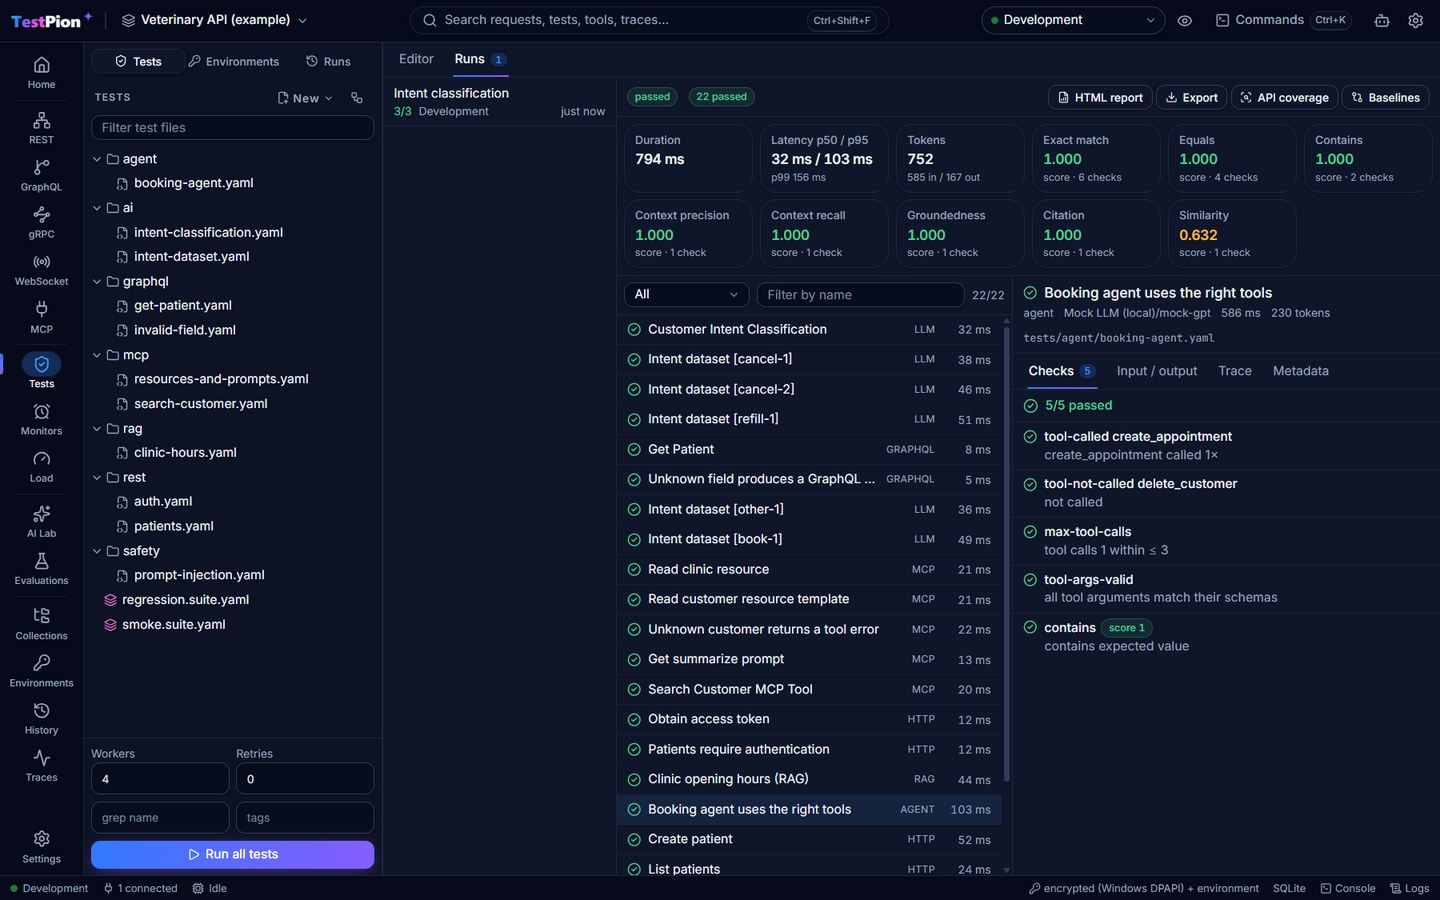
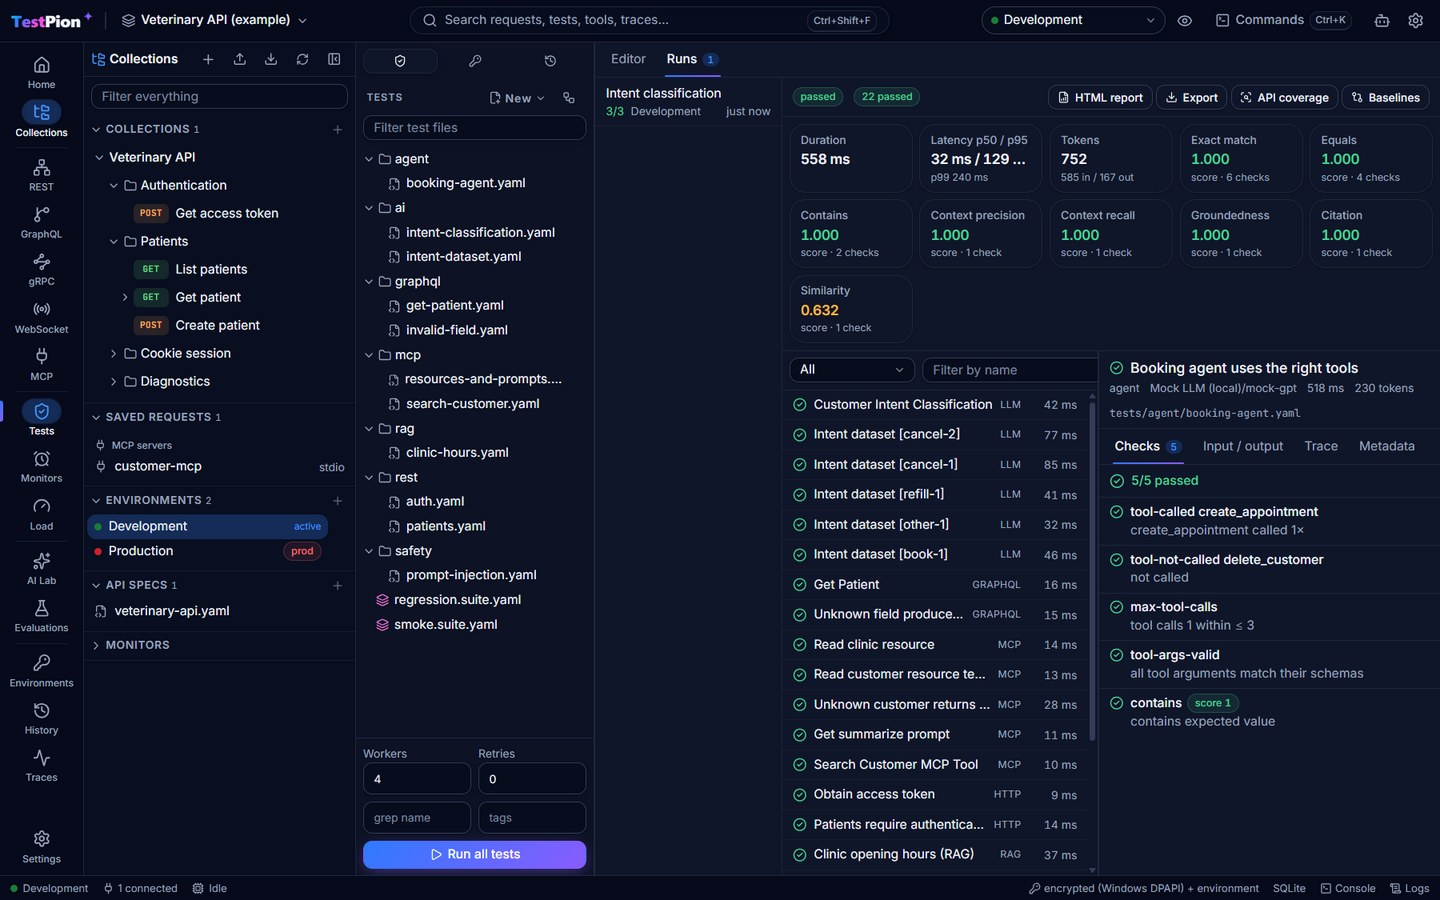
Release v0.10.0: Collections explorer, Postman-style request settings, saved evaluations and load tests from the CLI and MCP, export beside import, safer update prompt
Screenshots are now captured from the committed example workspace (git HEAD), so local edits never reach the docs.

diff --git a/packages/core/src/version.ts b/packages/core/src/version.ts
@@ -1,2 +1,2 @@
 /** TestPion's version (the engine, CLI and app are released together). */
-export const ENGINE_VERSION = '0.9.1';
+export const ENGINE_VERSION = '0.10.0';

diff --git a/CHANGELOG.md b/CHANGELOG.md
@@ -1,6 +1,8 @@
 # Changelog
 
-## Unreleased
+## 0.10.0 — 2026-09-30
+
+Highlights: the **Collections explorer**, everything saved in the workspace in one panel next to every view (Ctrl+B); **Postman-style request settings**; saved **evaluations** and **load tests** that run by name from the CLI and MCP (`testpion eval run`, `testpion load --saved`); **Export** beside Import; body types keep their content when you switch; and an update prompt that still appears if the window can't show it.
 
 - **Collections explorer**: the Collections button, now right under Home, shows or hides a panel with everything saved in the workspace, next to every view (Ctrl+B). Its collapsible sections are collections (the full tree: run, move, edit folders, settings), saved gRPC requests, WebSocket connections, MCP servers, AI prompts, evaluations and load tests, environments (click to activate), API specs (coverage, compare versions) and monitors. One filter covers them all, and clicking an item opens it in its editor. It refreshes when anything is saved, in any view. While it's open, the views' own saved lists step aside.
 - **Update prompt you can't miss**: if the window can't show the update question (it failed to render, or crashed), TestPion asks with a native dialog instead.
